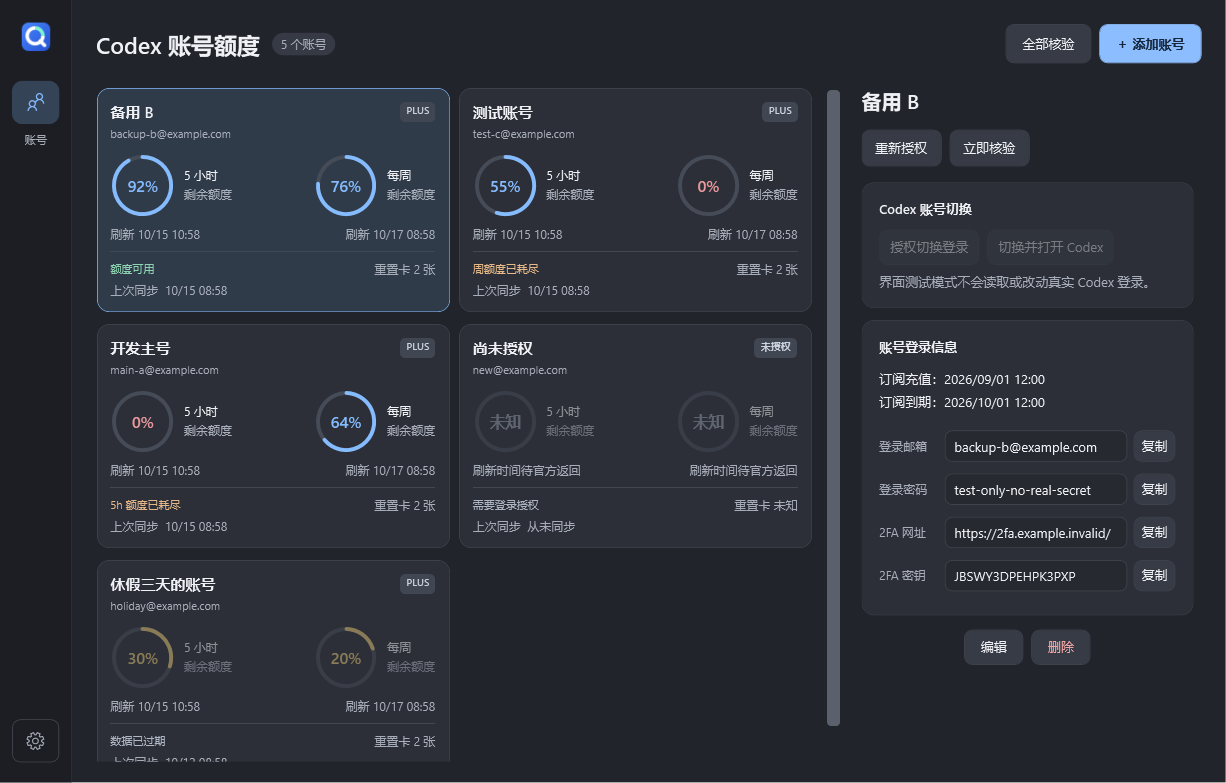
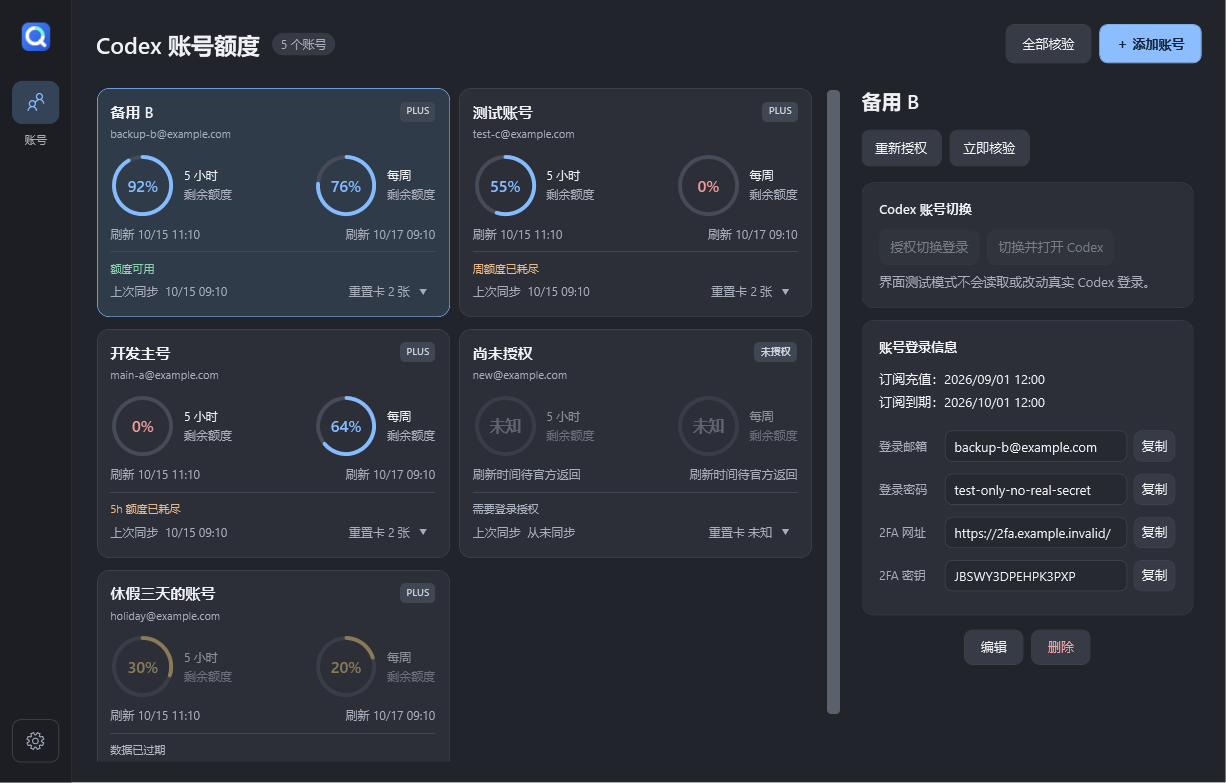
Show per-card reset expiry details in QuotaOrb 2.1.2

diff --git a/src/QuotaOrb/MainWindow.xaml b/src/QuotaOrb/MainWindow.xaml
@@ -61,12 +61,42 @@
                   <TextBlock Text="{Binding ShortReset}" Foreground="{StaticResource Subtle}" FontSize="12" TextTrimming="CharacterEllipsis" ToolTip="{Binding ShortReset}"/>
                   <TextBlock Grid.Column="1" Text="{Binding WeekReset}" Foreground="{StaticResource Subtle}" FontSize="12" TextAlignment="Right" TextTrimming="CharacterEllipsis" ToolTip="{Binding WeekReset}"/>
                 </Grid>
-                <Border BorderBrush="#454A55" BorderThickness="0,1,0,0" Padding="0,9,0,0"><Grid>
-                  <Grid.ColumnDefinitions><ColumnDefinition/><ColumnDefinition Width="Auto"/></Grid.ColumnDefinitions>
+                <Border BorderBrush="#454A55" BorderThickness="0,1,0,0" Padding="0,9,0,0">
                   <TextBlock Text="{Binding Status}" Foreground="{Binding StatusBrush}" FontSize="11" TextTrimming="CharacterEllipsis" ToolTip="{Binding Status}"/>
-                  <TextBlock Grid.Column="1" Text="{Binding Credits}" Foreground="{StaticResource Subtle}" FontSize="12" Margin="8,0,0,0"/>
-                </Grid></Border>
-                <TextBlock Text="{Binding Synced, StringFormat=上次同步  {0}}" Foreground="{StaticResource Subtle}" FontSize="12" Margin="0,5,0,0"/>
+                </Border>
+                <Grid Margin="0,5,0,0">
+                  <Grid.ColumnDefinitions><ColumnDefinition/><ColumnDefinition Width="Auto"/></Grid.ColumnDefinitions>
+                  <TextBlock x:Name="LastSyncText" Text="{Binding Synced, StringFormat=上次同步  {0}}" Foreground="{StaticResource Subtle}" FontSize="12" VerticalAlignment="Center" TextTrimming="CharacterEllipsis" ToolTip="{Binding Synced, StringFormat=上次同步  {0}}"/>
+                  <StackPanel Grid.Column="1" Orientation="Horizontal" Margin="8,0,0,0">
+                    <TextBlock x:Name="CreditsText" Text="{Binding Credits}" Foreground="{StaticResource Subtle}" FontSize="12" VerticalAlignment="Center"/>
+                    <Button x:Name="ResetCreditsButton" Content="▼" Click="ResetCredits_Click" Style="{StaticResource QuietButton}" Width="22" Height="22" Padding="2" Margin="3,0,0,0" BorderThickness="0" FontSize="9" ToolTip="查看重置卡到期时间" AutomationProperties.Name="查看重置卡到期时间">
+                      <Button.ContextMenu>
+                        <ContextMenu Background="{StaticResource Surface}" Foreground="{StaticResource Ink}" BorderBrush="{StaticResource Line}" FontFamily="Segoe UI, Microsoft YaHei UI" FontSize="12" HasDropShadow="False">
+                          <ContextMenu.Template><ControlTemplate TargetType="ContextMenu"><Border Background="{TemplateBinding Background}" BorderBrush="{TemplateBinding BorderBrush}" BorderThickness="1" CornerRadius="10" Padding="16"><ItemsPresenter/></Border></ControlTemplate></ContextMenu.Template>
+                          <MenuItem StaysOpenOnClick="True">
+                            <MenuItem.Template><ControlTemplate TargetType="MenuItem"><ContentPresenter ContentSource="Header"/></ControlTemplate></MenuItem.Template>
+                            <MenuItem.Header><StackPanel Width="260">
+                              <TextBlock Text="重置卡到期时间" FontWeight="SemiBold" FontSize="14"/>
+                              <TextBlock Text="{Binding Name}" Foreground="{StaticResource Subtle}" TextTrimming="CharacterEllipsis" Margin="0,5,0,10"/>
+                              <ScrollViewer MaxHeight="240" VerticalScrollBarVisibility="Auto" HorizontalScrollBarVisibility="Disabled">
+                                <ItemsControl ItemsSource="{Binding CreditExpiryRows}"><ItemsControl.ItemTemplate><DataTemplate>
+                                  <Grid Margin="0,5"><Grid.ColumnDefinitions><ColumnDefinition Width="64"/><ColumnDefinition/></Grid.ColumnDefinitions>
+                                    <TextBlock Text="{Binding Label}" Foreground="{StaticResource Subtle}"/>
+                                    <TextBlock Grid.Column="1" Text="{Binding Expires}" TextWrapping="Wrap"/>
+                                  </Grid>
+                                </DataTemplate></ItemsControl.ItemTemplate></ItemsControl>
+                              </ScrollViewer>
+                              <TextBlock Text="{Binding CreditExpiryNotice}" Foreground="{StaticResource Subtle}" TextWrapping="Wrap" Margin="0,5,0,0">
+                                <TextBlock.Style><Style TargetType="TextBlock"><Style.Triggers><DataTrigger Binding="{Binding CreditExpiryNotice}" Value=""><Setter Property="Visibility" Value="Collapsed"/></DataTrigger></Style.Triggers></Style></TextBlock.Style>
+                              </TextBlock>
+                              <TextBlock Text="按本机时区显示 · 以最近一次核验为准" Foreground="{StaticResource Subtle}" FontSize="11" Margin="0,12,0,0"/>
+                            </StackPanel></MenuItem.Header>
+                          </MenuItem>
+                        </ContextMenu>
+                      </Button.ContextMenu>
+                    </Button>
+                  </StackPanel>
+                </Grid>
               </StackPanel>
             </DataTemplate></ListBox.ItemTemplate>
           </ListBox>

diff --git a/src/QuotaOrb/SmokeChecks.cs b/src/QuotaOrb/SmokeChecks.cs
@@ -19,7 +19,7 @@ internal static class SmokeChecks
             Name=name,Email=email,Plan="plus",AuthState="ready",ProtectedPassword=SecretVault.Protect("test-only-no-real-secret"),
             ProtectedTwoFactorUrl=SecretVault.ProtectTwoFactorUrl("https://2fa.example.invalid/"),ProtectedTwoFactorKey=SecretVault.ProtectTwoFactorKey("JBSWY3DPEHPK3PXP"),LoginInfoInitialized=true,
             RechargeDate=new DateOnly(2026,9,1),SubscriptionDate=new DateOnly(2026,10,1),Notes="Synthetic-private-note；独立运行测试数据，未连接真实账号。",LastSuccessUtc=now,
-            Snapshot=new(now,"test-"+email,allowed,new(){["codex"]=new("codex",null,"plus",new(s,300,now.AddHours(2)),new(w,10080,now.AddDays(2)),null,null,null)},2,[new("test-card","available","codexRateLimits",now.AddDays(1),"重置卡")])
+            Snapshot=new(now,"test-"+email,allowed,new(){["codex"]=new("codex",null,"plus",new(s,300,now.AddHours(2)),new(w,10080,now.AddDays(2)),null,null,null)},2,[new("later-card","available","codexRateLimits",now.AddDays(3),"重置卡"),new("earlier-card","available","codexRateLimits",now.AddDays(1),"重置卡")])
         };
         service.Data.Accounts.Add(Make("备用 B","backup-b@example.com",8,24));
         service.Data.Accounts.Add(Make("开发主号","main-a@example.com",100,36));
@@ -129,6 +129,39 @@ internal static class SmokeChecks
             var firstCard=(FrameworkElement)window.AccountsGrid.ItemContainerGenerator.ContainerFromIndex(0);
             var secondCard=(FrameworkElement)window.AccountsGrid.ItemContainerGenerator.ContainerFromIndex(1);
             Check("wide view shows two cards per row",Math.Abs(firstCard.TranslatePoint(new Point(),window.AccountsGrid).Y-secondCard.TranslatePoint(new Point(),window.AccountsGrid).Y)<1);
+            static T CardElement<T>(FrameworkElement card, string name) where T : FrameworkElement
+            {
+                var presenter=MainWindow.FindVisualChild<ContentPresenter>(card)!;
+                return (T)presenter.ContentTemplate.FindName(name,presenter);
+            }
+            static bool FooterAligned(FrameworkElement card)
+            {
+                var sync=CardElement<TextBlock>(card,"LastSyncText");
+                var count=CardElement<TextBlock>(card,"CreditsText");
+                var syncCenter=sync.TranslatePoint(new Point(0,sync.ActualHeight/2),card);
+                var countCenter=count.TranslatePoint(new Point(0,count.ActualHeight/2),card);
+                return Math.Abs(syncCenter.Y-countCenter.Y)<1 && syncCenter.X+sync.ActualWidth<=countCenter.X;
+            }
+            Check("reset count shares the sync line without overlap",FooterAligned(firstCard));
+            var creditsButton=CardElement<Button>(firstCard,"ResetCreditsButton");
+            creditsButton.RaiseEvent(new RoutedEventArgs(Button.ClickEvent));
+            await app.Dispatcher.InvokeAsync(()=>{},DispatcherPriority.ContextIdle);
+            var creditMenu=creditsButton.ContextMenu;
+            creditMenu.UpdateLayout();
+            var creditRow=(AccountRow)firstCard.DataContext;
+            Check("reset dropdown opens for its own account",creditMenu.IsOpen&&ReferenceEquals(creditMenu.DataContext,creditRow)&&ReferenceEquals(creditMenu.PlacementTarget,creditsButton));
+            Check("reset dates use each official expiry sorted in local time",creditRow.CreditExpiryRows.Count==2&&creditRow.CreditExpiryRows[0].Expires==creditRow.Record.Snapshot!.ResetCredits![1].ExpiresAt!.Value.ToLocalTime().ToString("yyyy/MM/dd HH:mm")&&creditRow.CreditExpiryRows[1].Expires==creditRow.Record.Snapshot.ResetCredits[0].ExpiresAt!.Value.ToLocalTime().ToString("yyyy/MM/dd HH:mm")&&creditRow.CreditExpiryNotice=="");
+            var menuBitmap=new RenderTargetBitmap((int)Math.Ceiling(creditMenu.ActualWidth),(int)Math.Ceiling(creditMenu.ActualHeight),96,96,PixelFormats.Pbgra32);
+            menuBitmap.Render(creditMenu);
+            var menuEncoder=new PngBitmapEncoder();menuEncoder.Frames.Add(BitmapFrame.Create(menuBitmap));
+            using(var image=File.Create(Path.Combine(root,"reset-credits.png")))menuEncoder.Save(image);
+            creditMenu.IsOpen=false;
+            var snapshot=creditRow.Record.Snapshot!;
+            AccountRow CreditsRow(int? count,List<ResetCredit>? credits)=>new(new AccountRecord{Snapshot=snapshot with{ResetCount=count,ResetCredits=credits}},"codex",DateTimeOffset.UtcNow,false);
+            var partialCredits=CreditsRow(3,[new("unknown","available",null,null,null),new("used","used",null,DateTimeOffset.UtcNow,null)]);
+            Check("used cards excluded and missing expiry never invented",partialCredits.CreditExpiryRows.Count==1&&partialCredits.CreditExpiryRows[0].Expires=="到期时间待官方返回"&&partialCredits.CreditExpiryNotice.Contains("剩余 3 张")&&partialCredits.CreditExpiryNotice.Contains("仅返回 1 张"));
+            Check("zero cards and unavailable details have distinct messages",CreditsRow(0,[]).CreditExpiryNotice=="暂无可用重置卡。"&&CreditsRow(null,null).CreditExpiryNotice.Contains("暂未返回")&&CreditsRow(2,null).CreditExpiryNotice.Contains("仅返回 0 张"));
+            Check("inconsistent reset count is disclosed",CreditsRow(0,snapshot.ResetCredits).CreditExpiryNotice.Contains("暂不一致"));
             Capture(window,Path.Combine(root,"window.png"));
             Check("login password and 2FA fields display plaintext",window.PasswordDisplay.Text==plain&&window.TwoFactorUrlDisplay.Text=="https://2fa.example.invalid/"&&window.TwoFactorKeyDisplay.Text=="JBSWY3DPEHPK3PXP");
             Check("each copy button targets its own complete login value",ReferenceEquals(window.CopyEmailButton.Tag,window.EmailDisplay)&&ReferenceEquals(window.CopyPasswordButton.Tag,window.PasswordDisplay)&&ReferenceEquals(window.CopyTwoFactorUrlButton.Tag,window.TwoFactorUrlDisplay)&&ReferenceEquals(window.CopyTwoFactorKeyButton.Tag,window.TwoFactorKeyDisplay)&&(string)window.TwoFactorKeyDisplay.Tag=="JBSWY3DPEHPK3PXP");
@@ -145,6 +178,7 @@ internal static class SmokeChecks
             await app.Dispatcher.InvokeAsync(()=>{},DispatcherPriority.ContextIdle);
             window.UpdateLayout();Capture(window,Path.Combine(root,"window-narrow.png"));
             Check("narrow view fits account cards",window.AccountsGrid.Items.Cast<AccountRow>().All(row=>window.AccountsGrid.ItemContainerGenerator.ContainerFromItem(row) is not FrameworkElement item || item.ActualWidth<=window.AccountsGrid.ActualWidth));
+            Check("narrow reset footer stays aligned without overlap",FooterAligned((FrameworkElement)window.AccountsGrid.ItemContainerGenerator.ContainerFromIndex(0)));
             var accountScroll=MainWindow.FindVisualChild<ScrollViewer>(window.AccountsGrid)!;
             accountScroll.ScrollToVerticalOffset(220);window.UpdateLayout();
             var previousOffset=accountScroll.VerticalOffset;

diff --git a/src/QuotaOrb/MainWindow.xaml.cs b/src/QuotaOrb/MainWindow.xaml.cs
@@ -78,6 +78,18 @@ public partial class MainWindow : Window
         return null;
     }
 
+    private void ResetCredits_Click(object sender, RoutedEventArgs e)
+    {
+        if (sender is Button { DataContext: AccountRow row, ContextMenu: { } menu } button)
+        {
+            menu.DataContext = row;
+            menu.PlacementTarget = button;
+            menu.Placement = System.Windows.Controls.Primitives.PlacementMode.Bottom;
+            menu.IsOpen = true;
+            e.Handled = true;
+        }
+    }
+
     private void RenderDetails()
     {
         var a = Selected;
@@ -234,6 +246,8 @@ public sealed class AccountRow
     public string Email => string.IsNullOrEmpty(Record.Email) ? "尚未授权" : Record.Email;
     public string Plan => Record.Plan is "unknown" or "" ? "未授权" : Record.Plan.ToUpperInvariant();
     public string Credits => Record.Snapshot?.ResetCount is { } count ? $"重置卡 {count} 张" : "重置卡 未知";
+    public IReadOnlyList<ResetCreditExpiryRow> CreditExpiryRows { get; }
+    public string CreditExpiryNotice { get; }
     public double? ShortRemaining { get; }
     public double? WeekRemaining { get; }
     public string ShortReset { get; }
@@ -249,6 +263,19 @@ public sealed class AccountRow
     public AccountRow(AccountRecord account, string pool, DateTimeOffset now, bool busy)
     {
         Record = account; Decision = QuotaPolicy.Evaluate(account, pool, now);
+        var availableCredits = account.Snapshot?.ResetCredits?
+            .Where(c => string.Equals(c.Status, "available", StringComparison.OrdinalIgnoreCase))
+            .OrderBy(c => c.ExpiresAt ?? DateTimeOffset.MaxValue).ToList() ?? [];
+        CreditExpiryRows = availableCredits.Select((c, i) => new ResetCreditExpiryRow($"第 {i + 1} 张",
+            c.ExpiresAt is { } expiry ? expiry.ToLocalTime().ToString("yyyy/MM/dd HH:mm") : "到期时间待官方返回")).ToList();
+        CreditExpiryNotice = account.Snapshot?.ResetCount switch
+        {
+            0 when availableCredits.Count == 0 => "暂无可用重置卡。",
+            { } count when count > availableCredits.Count => $"官方显示剩余 {count} 张，目前仅返回 {availableCredits.Count} 张的到期明细。",
+            { } count when count < availableCredits.Count => "张数与明细暂不一致，请点击“立即核验”。",
+            null => "官方暂未返回完整的重置卡数量与到期明细。",
+            _ => ""
+        };
         var bucket = account.Snapshot?.Buckets.GetValueOrDefault(pool);
         var s = bucket?.ForDuration(300)?.Remaining; var w = bucket?.ForDuration(10080)?.Remaining;
         ShortRemaining = s; WeekRemaining = w;
@@ -261,3 +288,5 @@ public sealed class AccountRow
         StatusBrush = new SolidColorBrush((Color)ColorConverter.ConvertFromString(busy ? "#85BBFF" : Decision.CanRecommend ? "#8ED3B2" : Decision.State is Availability.Exhausted or Availability.PendingReset ? "#E7BA8C" : "#B0B7C5"));
     }
 }
+
+public sealed record ResetCreditExpiryRow(string Label, string Expires);

diff --git a/src/QuotaOrb.Tests/Program.cs b/src/QuotaOrb.Tests/Program.cs
@@ -49,6 +49,13 @@ using var swapped = JsonDocument.Parse("""
 var parsed = QuotaParser.Parse(swapped.RootElement, now);
 Check("window semantics use duration, not order", parsed.Buckets["codex"].ForDuration(300)?.Remaining == 93);
 Check("total credits not inferred from detail count", parsed.ResetCount == 8 && parsed.ResetCredits?.Count == 1);
+using var resetDetails = JsonDocument.Parse("""
+{"rateLimitResetCredits":{"availableCount":3,"credits":[{"id":"later","status":"available","expiresAt":1794000000},{"id":"earlier","status":"available","expiresAt":1793000000},{"id":"unknown","status":"available","expiresAt":null},{"id":"invalid","status":"used","expiresAt":9223372036854775807}]}}
+""");
+var resetSnapshot = QuotaParser.Parse(resetDetails.RootElement, now);
+Check("individual reset expiry timestamps are preserved", resetSnapshot.ResetCredits is { Count: 4 } details && details[0].ExpiresAt == DateTimeOffset.FromUnixTimeSeconds(1794000000) && details[1].ExpiresAt == DateTimeOffset.FromUnixTimeSeconds(1793000000));
+Check("unknown and invalid reset expiry stay unknown", resetSnapshot.ResetCredits![2].ExpiresAt is null && resetSnapshot.ResetCredits[3].ExpiresAt is null);
+Check("credit status and official count remain distinct from detail list", resetSnapshot.ResetCount == 3 && resetSnapshot.ResetCredits![3].Status == "used");
 using var malformed = JsonDocument.Parse("{\"rateLimits\":{\"primary\":{\"usedPercent\":-2,\"windowDurationMins\":300,\"resetsAt\":9223372036854775807}}}");
 var invalid = QuotaParser.Parse(malformed.RootElement, now).Buckets["codex"].Primary;
 Check("negative usage never becomes full balance", invalid?.Remaining is null);

diff --git a/README.md b/README.md
@@ -1,10 +1,12 @@
 # QuotaOrb · 额度管理
 
-Windows 桌面 Codex 多账号额度助手。**2.1.1 · MIT 开源 · Windows 10/11 x64**。
+Windows 桌面 Codex 多账号额度助手。**2.1.2 · MIT 开源 · Windows 10/11 x64**。
 
 **2.1.0 正式版**增加独立授权及桌面账号切换。账号分别授权后，从 Codex 托盘退出程序，再点击 **切换并打开 Codex** 即可切换。参见 [账号切换使用说明](docs/account-switch.md)。
 
 **2.1.1**使用原创蓝色 Q 额度标识，统一软件界面、窗口、桌面快捷方式、任务栏和托盘图标。
+
+**2.1.2**增加逐张重置卡到期明细。卡片底部的重置卡数量与上次同步对齐，点击右侧 **▼** 查看每张可用卡的到期日期和时间，按本机时区显示、临近到期优先。缺少明细或到期时间时会明确提示。
 
 查看账号的 5 小时和每周剩余额度、官方刷新时间与重置卡数量，在使用前判断哪些账号仍有额度。
 
@@ -28,7 +30,7 @@ Windows 桌面 Codex 多账号额度助手。**2.1.1 · MIT 开源 · Windows 10
 ## 功能
 
 - 多账号卡片：5h / 每周剩余百分比、刷新时刻、上次同步和额度状态。
-- 官方返回的重置卡数量，只读展示，不自动消费。
+- 官方返回的重置卡数量及逐张到期时间，只读展示，不自动消费；明细以最近一次核验为准。
 - 展开窗口每 **15 分钟**核验，后台或最小化每 **30 分钟**核验；支持手动核验和失败退避。
 - 休眠、断网、过期快照与授权失效分别处理，不凭时间流逝把余额改成 100%。
 - 账号名称、订阅日期时间、邮箱、密码、2FA 网址和密钥的管理与复制。
@@ -64,7 +66,7 @@ Windows 桌面 Codex 多账号额度助手。**2.1.1 · MIT 开源 · Windows 10
 dotnet run --project src/QuotaOrb.Tests -c Release
 dotnet run --project src/QuotaOrb.ServiceTests -c Release
 dotnet run --project src/QuotaOrb.DesktopSwitchTests -c Release
-dotnet publish src/QuotaOrb/QuotaOrb.csproj -c Release -r win-x64 --self-contained true -p:RestoreLockedMode=true -p:IncludeSourceRevisionInInformationalVersion=false -o dist/QuotaOrb-2.1.1
+dotnet publish src/QuotaOrb/QuotaOrb.csproj -c Release -r win-x64 --self-contained true -p:RestoreLockedMode=true -p:IncludeSourceRevisionInInformationalVersion=false -o dist/QuotaOrb-2.1.2
 ```
 
 也可运行 `scripts/bootstrap.ps1` 下载并校验官方 SDK 到项目 `.tools`，再运行 `scripts/publish.ps1` 生成包含安装脚本、许可证和校验文件的内部发布目录。
@@ -72,7 +74,7 @@ dotnet publish src/QuotaOrb/QuotaOrb.csproj -c Release -r win-x64 --self-contain
 原生界面检查需安装 Codex，指定**全新独立**的测试目录：
 
 ```powershell
-.\dist\QuotaOrb-2.1.1\QuotaOrb.exe --smoke-test --skip-auth-handoff --data-root C:\Temp\QuotaOrb-Smoke-New
+.\dist\QuotaOrb-2.1.2\QuotaOrb.exe --smoke-test --skip-auth-handoff --data-root C:\Temp\QuotaOrb-Smoke-New
 ```
 
 测试仅使用虚构账号，并生成界面截图。`--skip-auth-handoff` 避免占用真实授权回调端口；省略它会在隔离目录启动并取消一个未登录的官方授权会话，不自动打开浏览器。不要指向实际账号目录。

diff --git a/CHANGELOG.md b/CHANGELOG.md
@@ -1,5 +1,24 @@
 # 更新记录
 
+## 2.1.2 — 2026-10-15
+
+- 重置卡数量移到上次同步的同一行，右侧下拉按钮展示每张可用卡的到期日期与时间。
+- 到期明细按临近到期优先排列，转换为本机时区；缺少明细、未知时间或数量不一致时明确说明，不推算到期时间。
+- 包含 2.1.0 的独立账号切换授权与恢复机制，以及 2.1.1 的原创统一图标。
+
+## 2.1.1 — 2026-10-15（本地更新）
+
+- 原创蓝色 Q 额度标识统一覆盖软件内、窗口、桌面、任务栏与托盘。
+- 单一矢量源生成 16–256 像素图标；更新时保留现有桌面快捷方式位置、目标和启动参数。
+
+## 2.1.0 — 2026-10-15（本地更新）
+
+- 新增各账号独立的“授权切换登录”，避免在 Codex 中退出登录导致旧缓存失效。
+- 从 Codex 托盘退出程序后，点击“切换并打开 Codex”切换账号并重新打开桌面应用。
+- 切换前核验目标身份和受支持客户端，阻止在 Codex 仍运行时覆盖登录；失败时尝试恢复原登录。
+- 切换授权使用 Windows 当前用户 DPAPI 加密，支持中断恢复，不包含在账号导出或程序备份内。
+- 账号切换提示按所选账号独立显示，旧桌面缓存与独立授权分开判断。
+
 ## 2.0.0 — 2026-10-14
 
 首次公开发布，在此前本地版本基础上整理为 MIT 开源项目。
